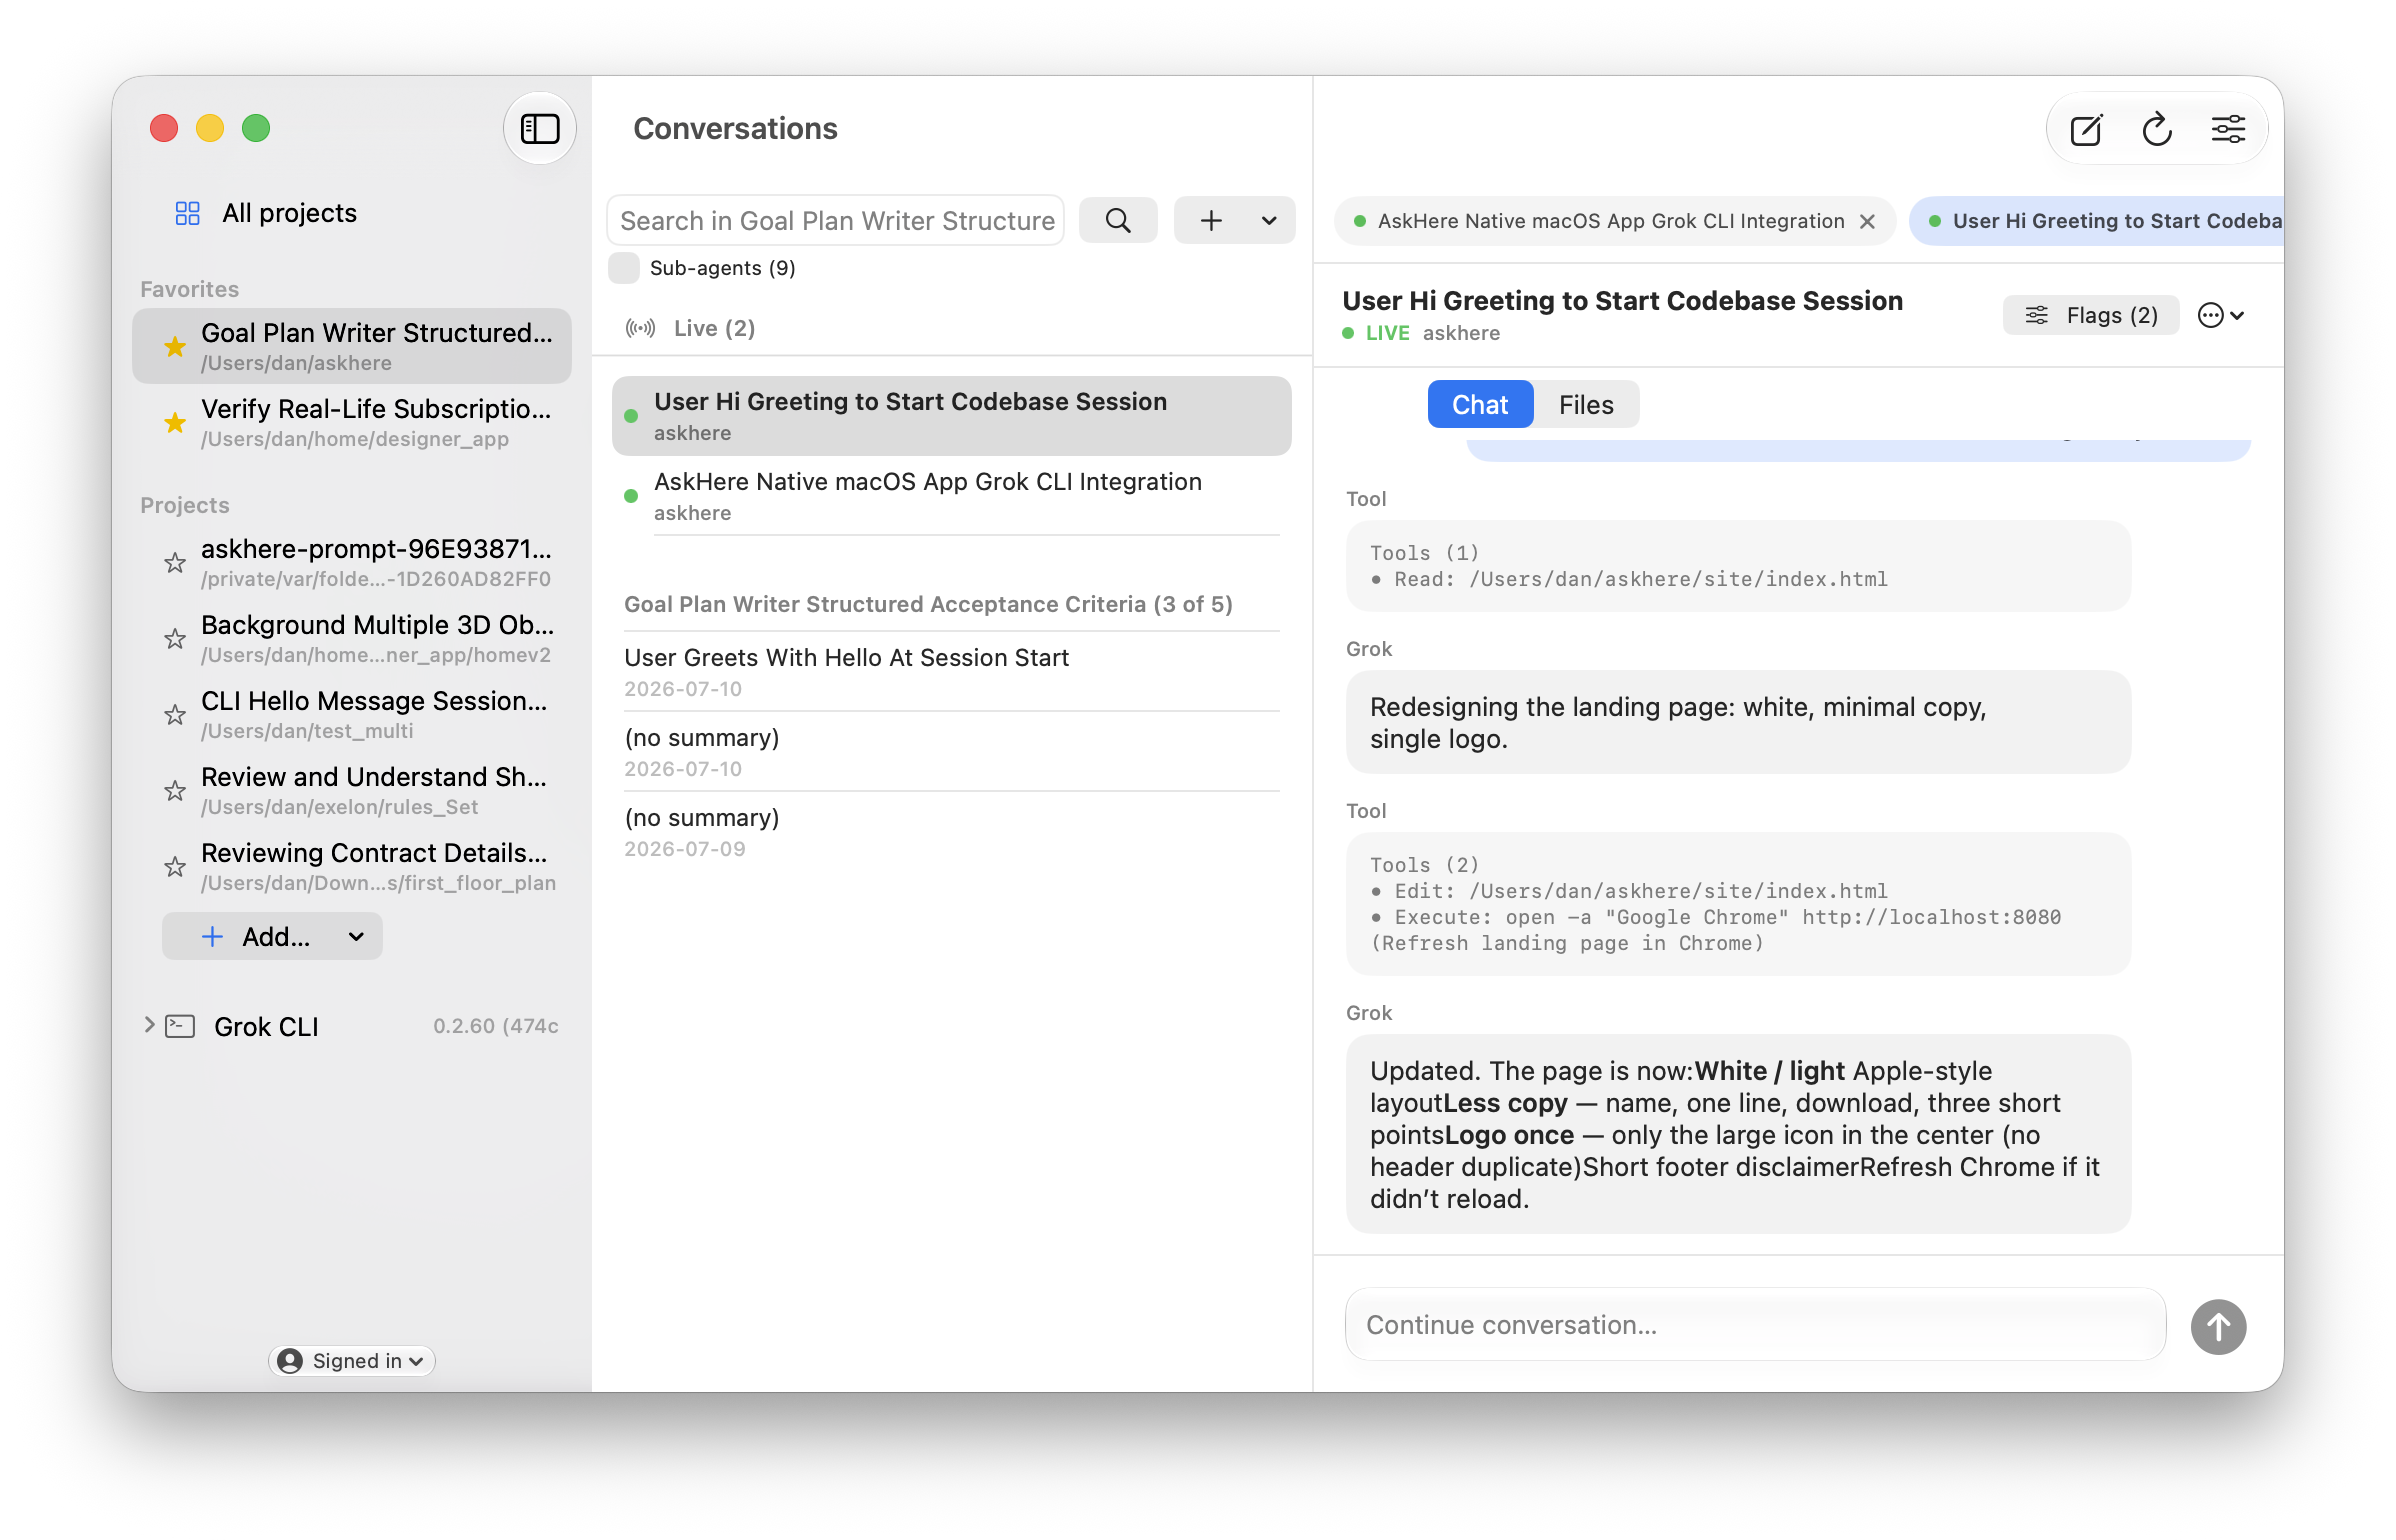
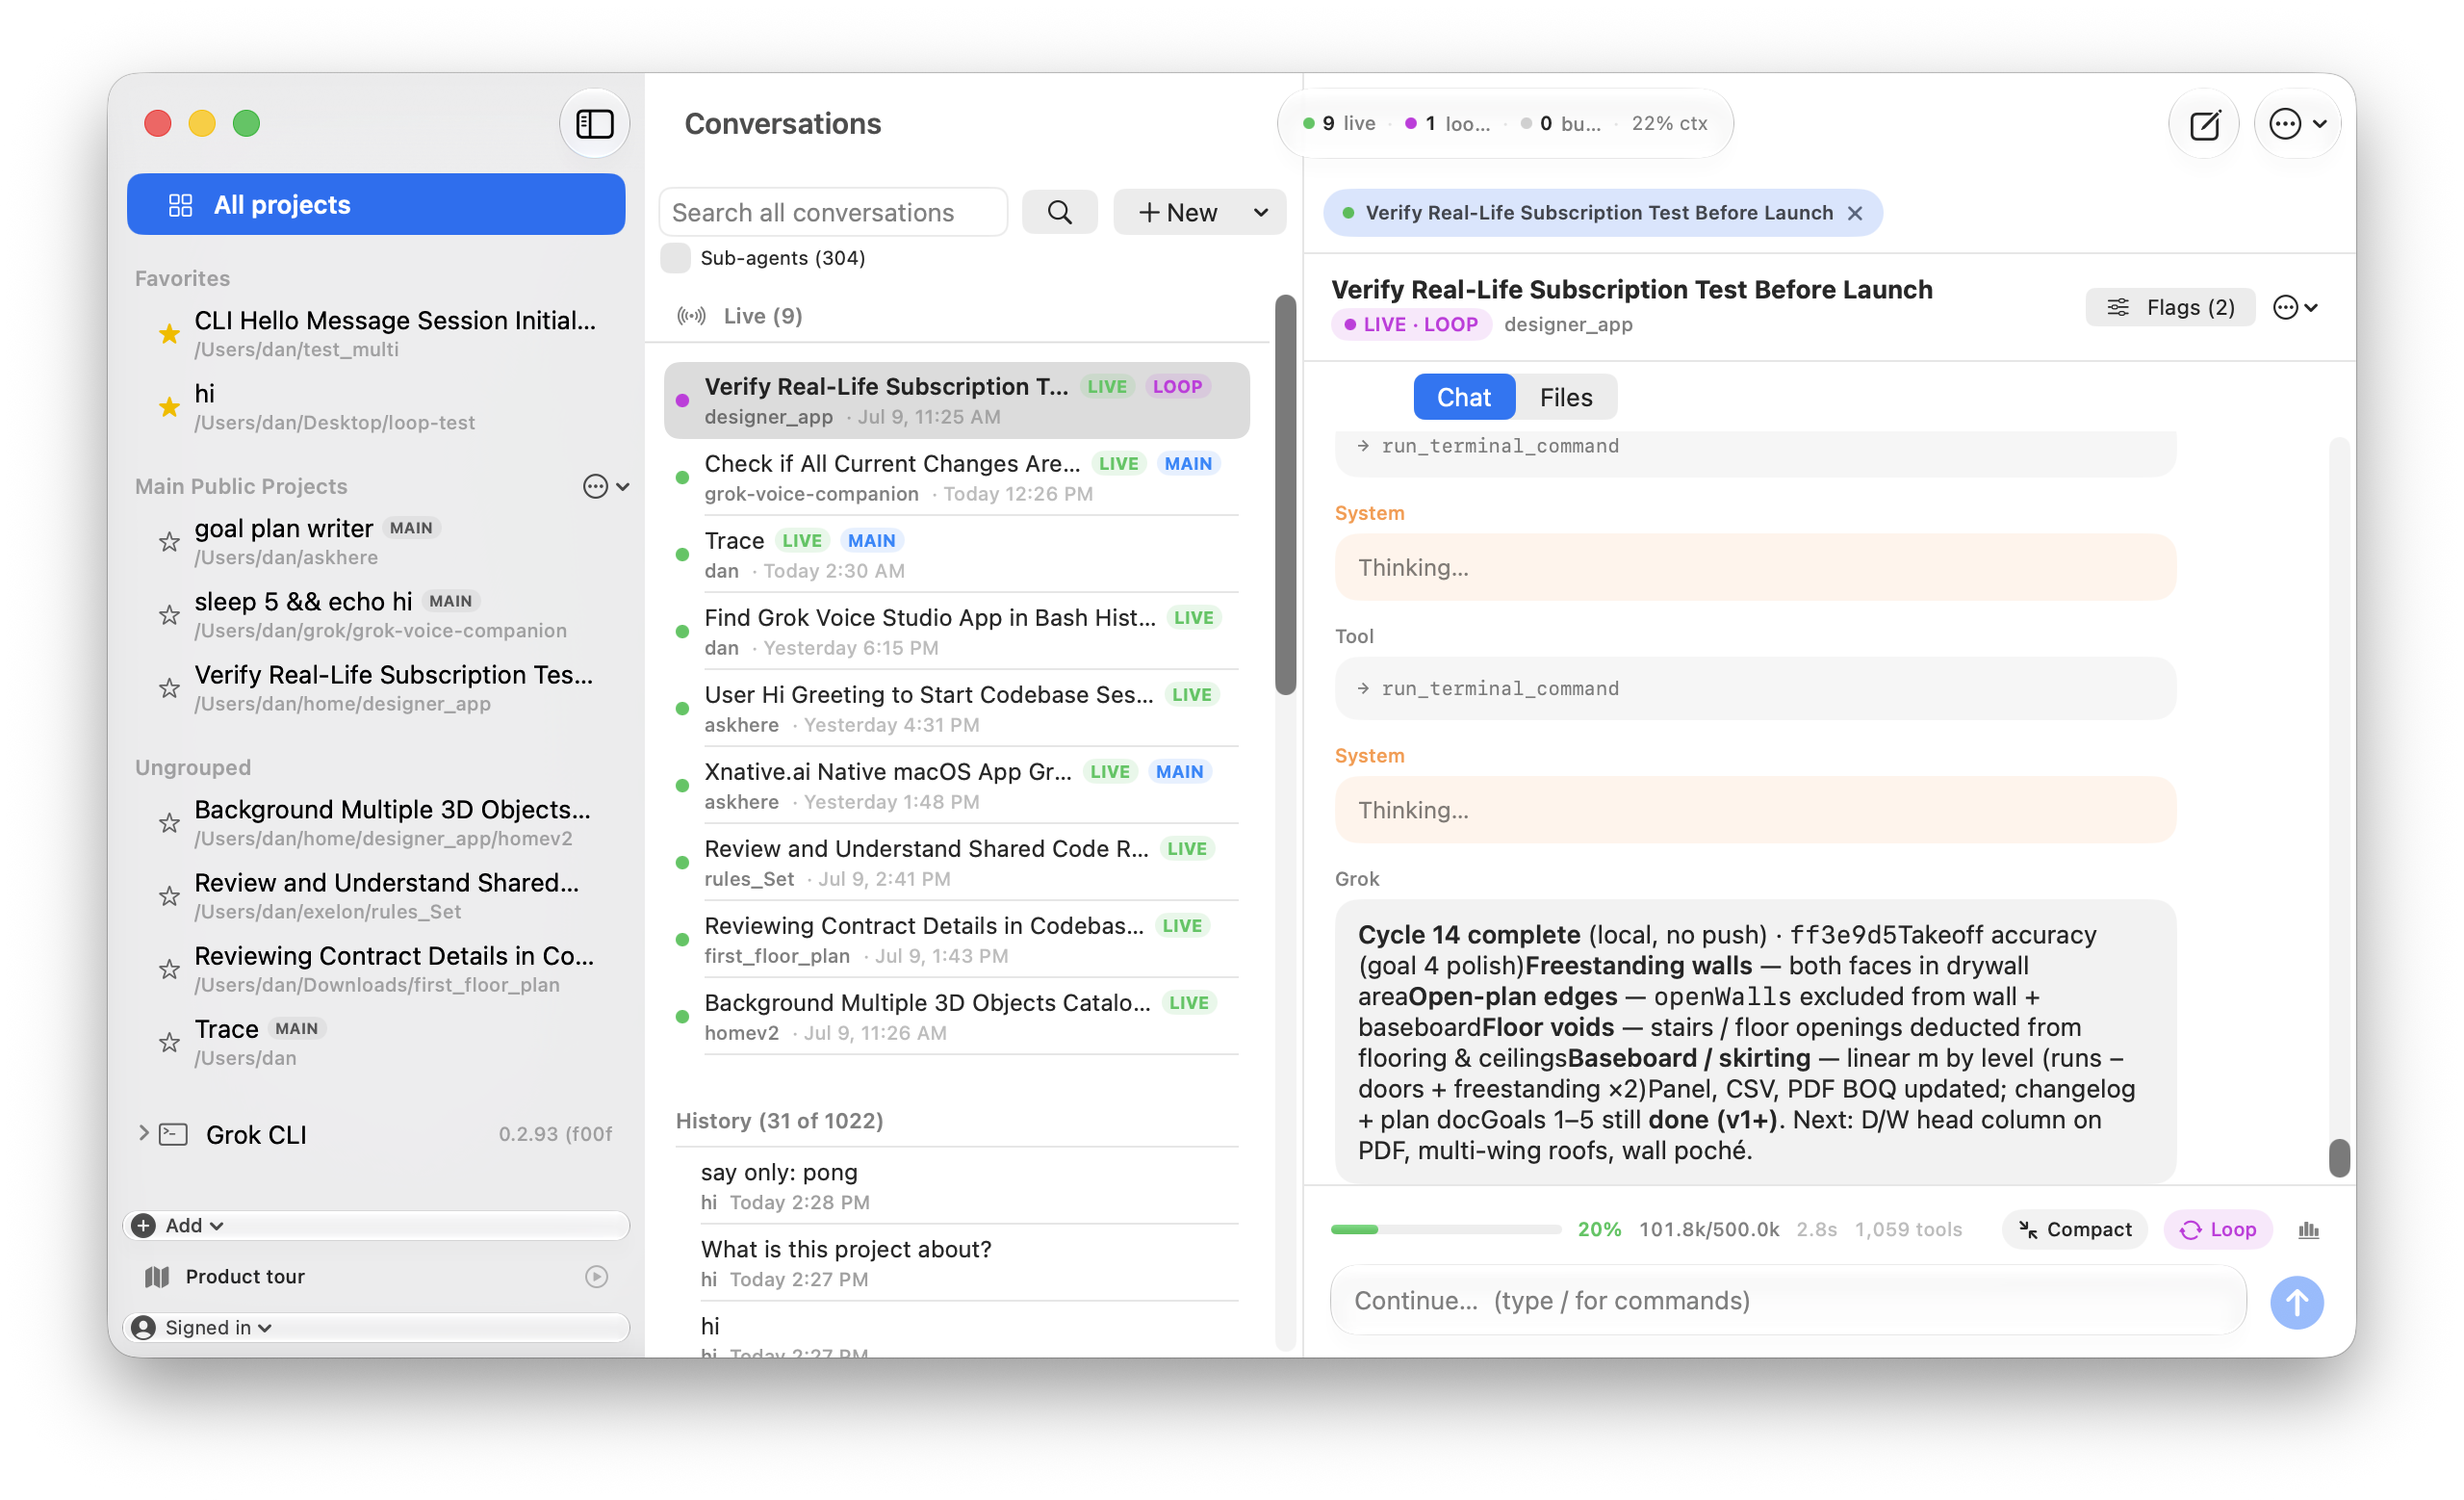
Update landing screenshot and OG card for Xnative

diff --git a/index.html b/index.html
@@ -19,8 +19,8 @@
   <meta property="og:title" content="Xnative — Native Grok Build for Mac" />
   <meta property="og:description" content="Grok Build without the terminal. One-click xAI login, auto-install CLI, projects, chats, and live sessions. Free for macOS 15+." />
   <!-- Primary large card: logo + app preview (1200×630) -->
-  <meta property="og:image" content="https://xnative.app/og-share-v2.png" />
-  <meta property="og:image:secure_url" content="https://xnative.app/og-share-v2.png" />
+  <meta property="og:image" content="https://xnative.app/og-share-v3.png" />
+  <meta property="og:image:secure_url" content="https://xnative.app/og-share-v3.png" />
   <meta property="og:image:type" content="image/png" />
   <meta property="og:image:width" content="1200" />
   <meta property="og:image:height" content="630" />
@@ -39,13 +39,13 @@
   <meta name="twitter:url" content="https://xnative.app/" />
   <meta name="twitter:title" content="Xnative — Native Grok Build for Mac" />
   <meta name="twitter:description" content="Grok Build without the terminal. Auto-installs CLI, one-click xAI login, projects & chats. Free for Mac." />
-  <meta name="twitter:image" content="https://xnative.app/og-share-v2.png" />
+  <meta name="twitter:image" content="https://xnative.app/og-share-v3.png" />
   <meta name="twitter:image:alt" content="Xnative app — native Grok Build for Mac, with project sidebar and chat" />
 
   <link rel="icon" type="image/png" sizes="32x32" href="https://xnative.app/app-icon-v2.png" />
   <link rel="icon" type="image/png" sizes="192x192" href="https://xnative.app/app-icon-v2.png" />
   <link rel="apple-touch-icon" href="https://xnative.app/app-icon-v2.png" />
-  <link rel="image_src" href="https://xnative.app/og-share-v2.png" />
+  <link rel="image_src" href="https://xnative.app/og-share-v3.png" />
 
   <style>
     :root {
@@ -239,14 +239,15 @@
     .meta a:hover { opacity: 0.85; color: var(--text); }
 
     .shot {
-      width: min(100%, 860px);
+      display: block;
+      width: min(100%, 920px);
       height: auto;
-      margin-top: 48px;
-      border-radius: 16px;
-      box-shadow:
-        0 0 0 1px var(--line),
-        0 24px 64px rgba(0,0,0,0.12);
-      background: var(--soft);
+      margin: 48px auto 0;
+      background: transparent;
+      border: none;
+      border-radius: 0;
+      box-shadow: none;
+      filter: none;
     }
     .points {
       list-style: none;
@@ -328,8 +329,8 @@
         class="shot"
         src="screenshot.png"
         alt="Xnative app showing projects, conversations, and chat"
-        width="2396"
-        height="1540"
+        width="2560"
+        height="1558"
       />
 
       <ul class="points">